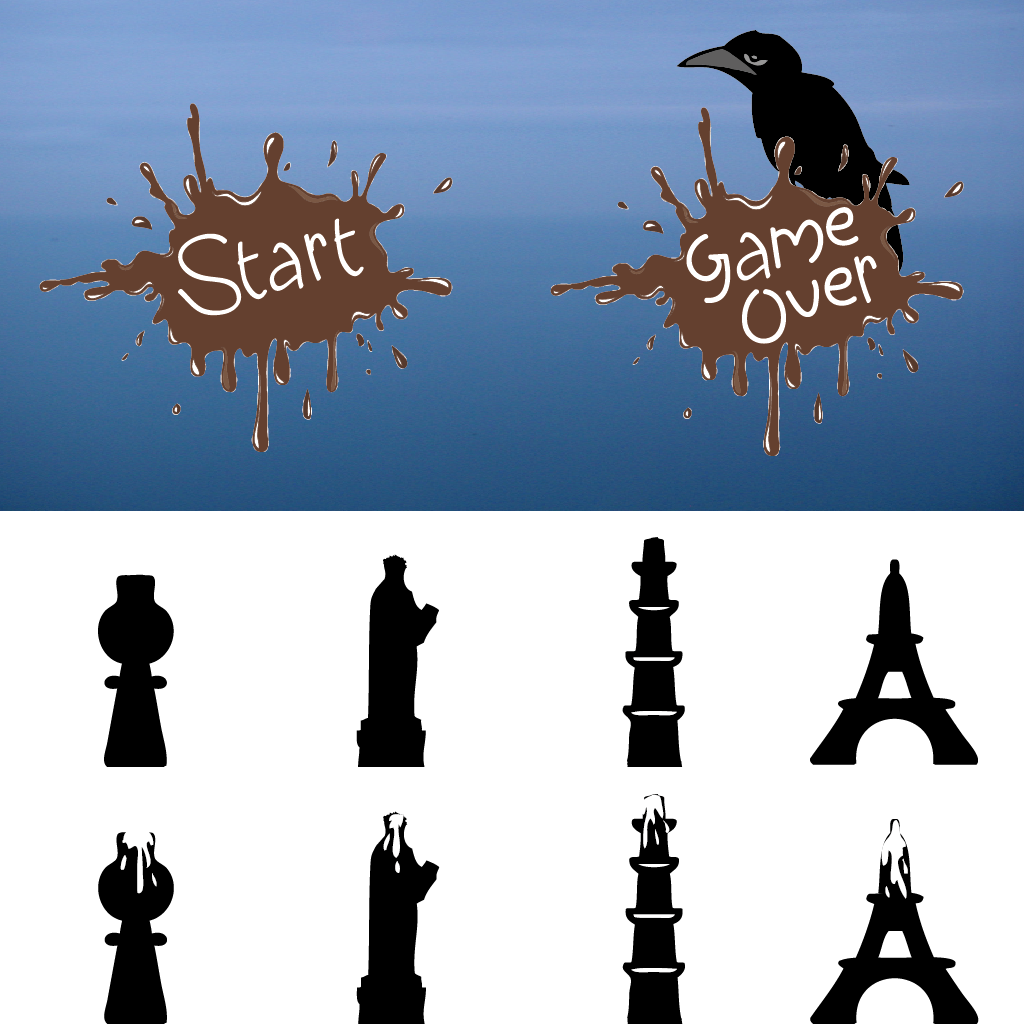
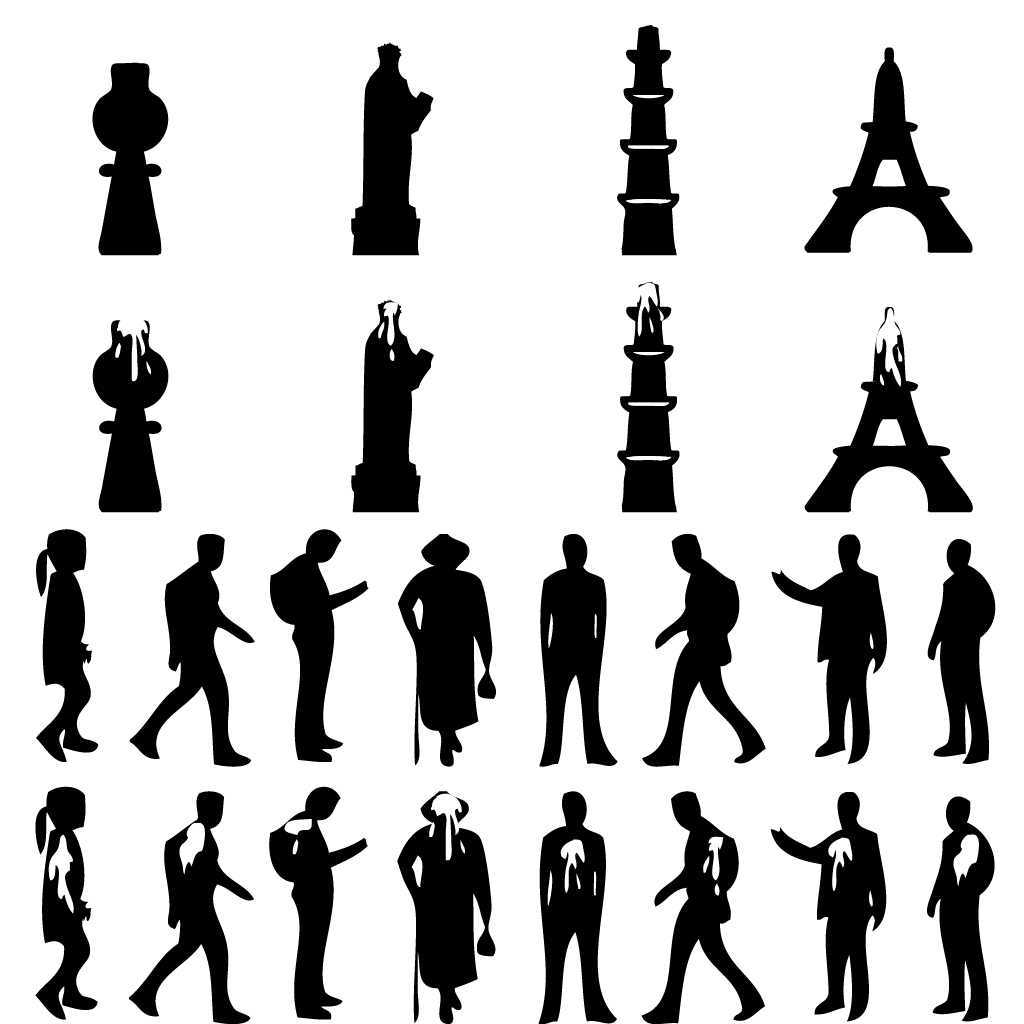
New targets and scoring

diff --git a/html5/src/content.c b/html5/src/content.c
@@ -123,46 +123,129 @@ Sprite g_crap_sprites[3] = {
     }
 };
 
-Sprite g_target_sprites[8] = {
+Sprite g_target_sprites[24] = {
     {
-        (000.0f + 0.5f)/1024.0f, (512.0f + 0.5f)/1024.0f,
-        (255.0f + 0.5f)/1024.0f, (767.0f + 0.5f)/1024.0f,
+        (000.0f + 0.5f)/1024.0f, (000.0f + 0.5f)/1024.0f,
+        (255.0f + 0.5f)/1024.0f, (255.0f + 0.5f)/1024.0f,
         0.25f, 0.25f,
     },
     {
-        (000.0f + 0.5f)/1024.0f, (767.0f + 0.5f)/1024.0f,
-        (255.0f + 0.5f)/1024.0f, (1023.0f + 0.5f)/1024.0f,
+        (000.0f + 0.5f)/1024.0f, (256.0f + 0.5f)/1024.0f,
+        (255.0f + 0.5f)/1024.0f, (511.0f + 0.5f)/1024.0f,
         0.25f, 0.25f,
+    },
+    {
+        (256.0f + 0.5f)/1024.0f, (000.0f + 0.5f)/1024.0f,
+        (511.0f + 0.5f)/1024.0f, (255.0f + 0.5f)/1024.0f,
+        0.25f, 0.25f,
+    },
+    {
+        (256.0f + 0.5f)/1024.0f, (256.0f + 0.5f)/1024.0f,
+        (511.0f + 0.5f)/1024.0f, (511.0f + 0.5f)/1024.0f,
+        0.25f, 0.25f,
+    },
+    {
+        (512.0f + 0.5f)/1024.0f, (000.0f + 0.5f)/1024.0f,
+        (767.0f + 0.5f)/1024.0f, (255.0f + 0.5f)/1024.0f,
+        0.25f, 0.25f,
+    },
+    {
+        (512.0f + 0.5f)/1024.0f, (256.0f + 0.5f)/1024.0f,
+        (767.0f + 0.5f)/1024.0f, (511.0f + 0.5f)/1024.0f,
+        0.25f, 0.25f,
+    },
+    {
+        (768.0f + 0.5f)/1024.0f, (000.0f + 0.5f)/1024.0f,
+        (1023.0f + 0.5f)/1024.0f, (255.0f + 0.5f)/1024.0f,
+        0.25f, 0.25f,
+    },
+    {
+        (768.0f + 0.5f)/1024.0f, (256.0f + 0.5f)/1024.0f,
+        (1023.0f + 0.5f)/1024.0f, (511.0f + 0.5f)/1024.0f,
+        0.25f, 0.25f,
+    },
+
+
+
+    {
+        (000.0f + 0.5f)/1024.0f, (512.0f + 0.5f)/1024.0f,
+        (127.0f + 0.5f)/1024.0f, (767.0f + 0.5f)/1024.0f,
+        0.125f, 0.25f,
+    },
+    {
+        (000.0f + 0.5f)/1024.0f, (768.0f + 0.5f)/1024.0f,
+        (127.0f + 0.5f)/1024.0f, (1023.0f + 0.5f)/1024.0f,
+        0.125f, 0.25f,
+    },
+    {
+        (128.0f + 0.5f)/1024.0f, (512.0f + 0.5f)/1024.0f,
+        (255.0f + 0.5f)/1024.0f, (767.0f + 0.5f)/1024.0f,
+        0.125f, 0.25f,
+    },
+    {
+        (128.0f + 0.5f)/1024.0f, (768.0f + 0.5f)/1024.0f,
+        (255.0f + 0.5f)/1024.0f, (1023.0f + 0.5f)/1024.0f,
+        0.125f, 0.25f,
     },
     {
         (256.0f + 0.5f)/1024.0f, (512.0f + 0.5f)/1024.0f,
-        (511.0f + 0.5f)/1024.0f, (767.0f + 0.5f)/1024.0f,
-        0.25f, 0.25f,
+        (383.0f + 0.5f)/1024.0f, (767.0f + 0.5f)/1024.0f,
+        0.125f, 0.25f,
     },
     {
-        (256.0f + 0.5f)/1024.0f, (767.0f + 0.5f)/1024.0f,
+        (256.0f + 0.5f)/1024.0f, (768.0f + 0.5f)/1024.0f,
+        (383.0f + 0.5f)/1024.0f, (1023.0f + 0.5f)/1024.0f,
+        0.125f, 0.25f,
+    },
+    {
+        (384.0f + 0.5f)/1024.0f, (512.0f + 0.5f)/1024.0f,
+        (511.0f + 0.5f)/1024.0f, (767.0f + 0.5f)/1024.0f,
+        0.125f, 0.25f,
+    },
+    {
+        (384.0f + 0.5f)/1024.0f, (768.0f + 0.5f)/1024.0f,
         (511.0f + 0.5f)/1024.0f, (1023.0f + 0.5f)/1024.0f,
-        0.25f, 0.25f,
+        0.125f, 0.25f,
     },
     {
         (512.0f + 0.5f)/1024.0f, (512.0f + 0.5f)/1024.0f,
-        (767.0f + 0.5f)/1024.0f, (767.0f + 0.5f)/1024.0f,
-        0.25f, 0.25f,
+        (639.0f + 0.5f)/1024.0f, (767.0f + 0.5f)/1024.0f,
+        0.125f, 0.25f,
     },
     {
-        (512.0f + 0.5f)/1024.0f, (767.0f + 0.5f)/1024.0f,
+        (512.0f + 0.5f)/1024.0f, (768.0f + 0.5f)/1024.0f,
+        (639.0f + 0.5f)/1024.0f, (1023.0f + 0.5f)/1024.0f,
+        0.125f, 0.25f,
+    },
+    {
+        (640.0f + 0.5f)/1024.0f, (512.0f + 0.5f)/1024.0f,
+        (767.0f + 0.5f)/1024.0f, (767.0f + 0.5f)/1024.0f,
+        0.125f, 0.25f,
+    },
+    {
+        (640.0f + 0.5f)/1024.0f, (768.0f + 0.5f)/1024.0f,
         (767.0f + 0.5f)/1024.0f, (1023.0f + 0.5f)/1024.0f,
-        0.25f, 0.25f,
+        0.125f, 0.25f,
     },
     {
         (768.0f + 0.5f)/1024.0f, (512.0f + 0.5f)/1024.0f,
-        (1023.0f + 0.5f)/1024.0f, (767.0f + 0.5f)/1024.0f,
-        0.25f, 0.25f,
+        (895.0f + 0.5f)/1024.0f, (767.0f + 0.5f)/1024.0f,
+        0.125f, 0.25f,
     },
     {
-        (768.0f + 0.5f)/1024.0f, (767.0f + 0.5f)/1024.0f,
+        (768.0f + 0.5f)/1024.0f, (768.0f + 0.5f)/1024.0f,
+        (895.0f + 0.5f)/1024.0f, (1023.0f + 0.5f)/1024.0f,
+        0.125f, 0.25f,
+    },
+    {
+        (896.0f + 0.5f)/1024.0f, (512.0f + 0.5f)/1024.0f,
+        (1023.0f + 0.5f)/1024.0f, (767.0f + 0.5f)/1024.0f,
+        0.125f, 0.25f,
+    },
+    {
+        (896.0f + 0.5f)/1024.0f, (768.0f + 0.5f)/1024.0f,
         (1023.0f + 0.5f)/1024.0f, (1023.0f + 0.5f)/1024.0f,
-        0.25f, 0.25f,
+        0.125f, 0.25f,
     },
 };
 

diff --git a/html5/src/game.c b/html5/src/game.c
@@ -86,9 +86,9 @@ int LoadBg(int world_slice, Entity *entities, int n_entities)
 int LoadTarget(int world_slice, Entity *entities, int n_entities)
 {
     Entity es[3] = {
-        (const Entity){&g_target_sprites[2*(rand() % 4)], world_slice*4000 - 1800, -800, ENTITY_TYPE_TARGET},
-        (const Entity){&g_target_sprites[2*(rand() % 4)], world_slice*4000 - 200, -800, ENTITY_TYPE_TARGET},
-        (const Entity){&g_target_sprites[2*(rand() % 4)], world_slice*4000 + 1800, -800, ENTITY_TYPE_TARGET}
+        (const Entity){&g_target_sprites[2*(rand() % N_ASSET_TARGETS)], world_slice*4000 - 1800, -800, ENTITY_TYPE_TARGET},
+        (const Entity){&g_target_sprites[2*(rand() % N_ASSET_TARGETS)], world_slice*4000 - 200, -800, ENTITY_TYPE_TARGET},
+        (const Entity){&g_target_sprites[2*(rand() % N_ASSET_TARGETS)], world_slice*4000 + 1800, -800, ENTITY_TYPE_TARGET}
     };
     for(int i = 0; i < 3; i++) {
         int res = AddEntity(es[i], entities, n_entities);
@@ -157,6 +157,11 @@ void WriteInt(Entity *entities, int n_entities, int x, int y, int spacing, Sprit
             break;
         }
     } while(val > 0);
+}
+
+int GetScore(GameState* game_state)
+{
+    return game_state->food_counter + 20*game_state->target_counter;
 }
 
 void GameStateUpdate(GameState* game_state, GameInput game_input)
@@ -307,7 +312,8 @@ void GameStateUpdate(GameState* game_state, GameInput game_input)
         obstacle_plane->offset_x += BG_SPEED;
         food_plane->offset_x += BG_SPEED;
 
-        WriteInt(score_plane->entities, MAX_ENTITIES_PER_PLANE, 1725, 725, 75, &g_nums[0], game_state->food_counter);
+        int score = GetScore(game_state);
+        WriteInt(score_plane->entities, MAX_ENTITIES_PER_PLANE, 1725, 725, 75, &g_nums[0], score);
         darken_plane->entities[0] = (const Entity){NULL, 0, 0, ENTITY_TYPE_NULL};
         buttons_plane->entities[0] = (const Entity){&g_pause[0], 1725, 925, ENTITY_TYPE_BUTTON};
         
@@ -451,7 +457,7 @@ void GameStateUpdate(GameState* game_state, GameInput game_input)
         score_plane->offset_y = 0;
         ClearEntities(score_plane->entities, MAX_ENTITIES_PER_PLANE);
 
-        int score = game_state->food_counter;
+        int score = GetScore(game_state);
         int n_digits = 0;
         int tmp = score;
         do {

diff --git a/html5/inc/content.h b/html5/inc/content.h
@@ -6,6 +6,7 @@
 #define KAGE_CONTENT_H
 
 #define MAX_KEYFRAMES 64
+#define N_ASSET_TARGETS 12
 
 typedef struct {
     float s0, t0; // left-top
@@ -30,7 +31,7 @@ extern Sprite g_bush_sprites[4];
 extern Sprite g_building_sprites[8];
 extern Sprite g_kage_sprites[8];
 extern Sprite g_crap_sprites[3];
-extern Sprite g_target_sprites[8];
+extern Sprite g_target_sprites[2*N_ASSET_TARGETS];
 extern Sprite g_food_sprites[4];
 extern Sprite g_obstacle_sprites[1];
 extern Sprite g_stop_splash_sprite;
